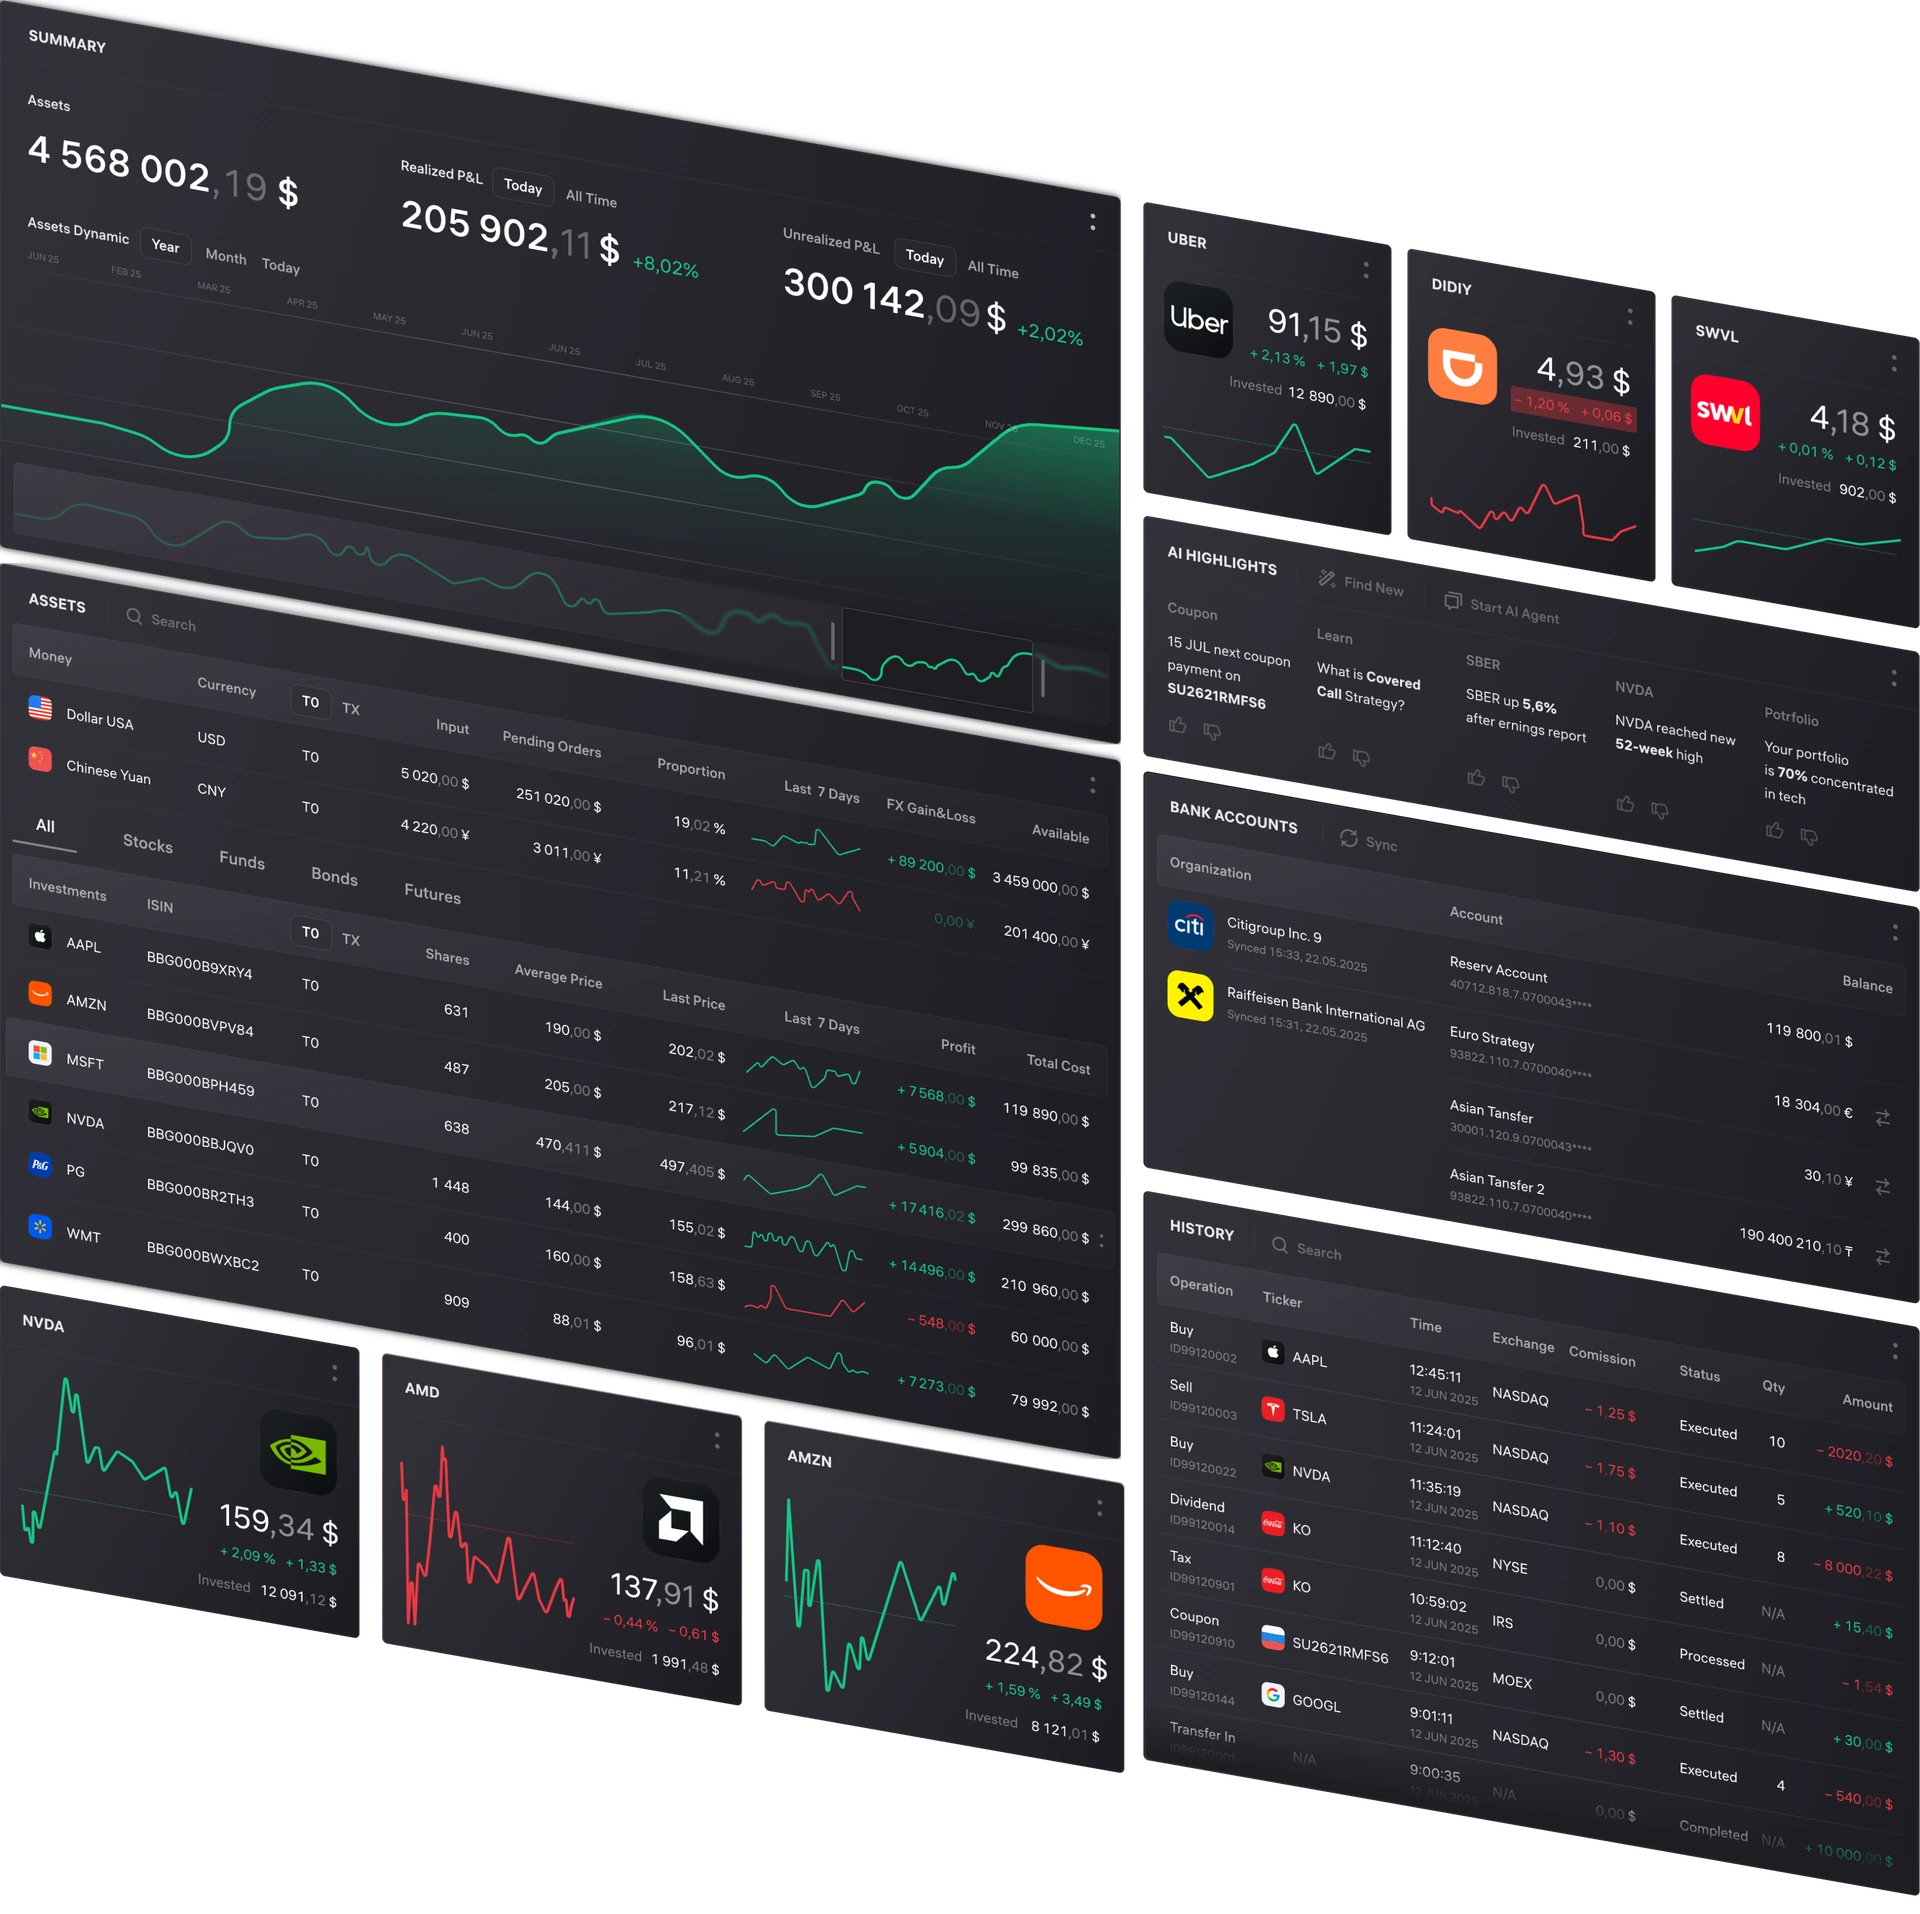
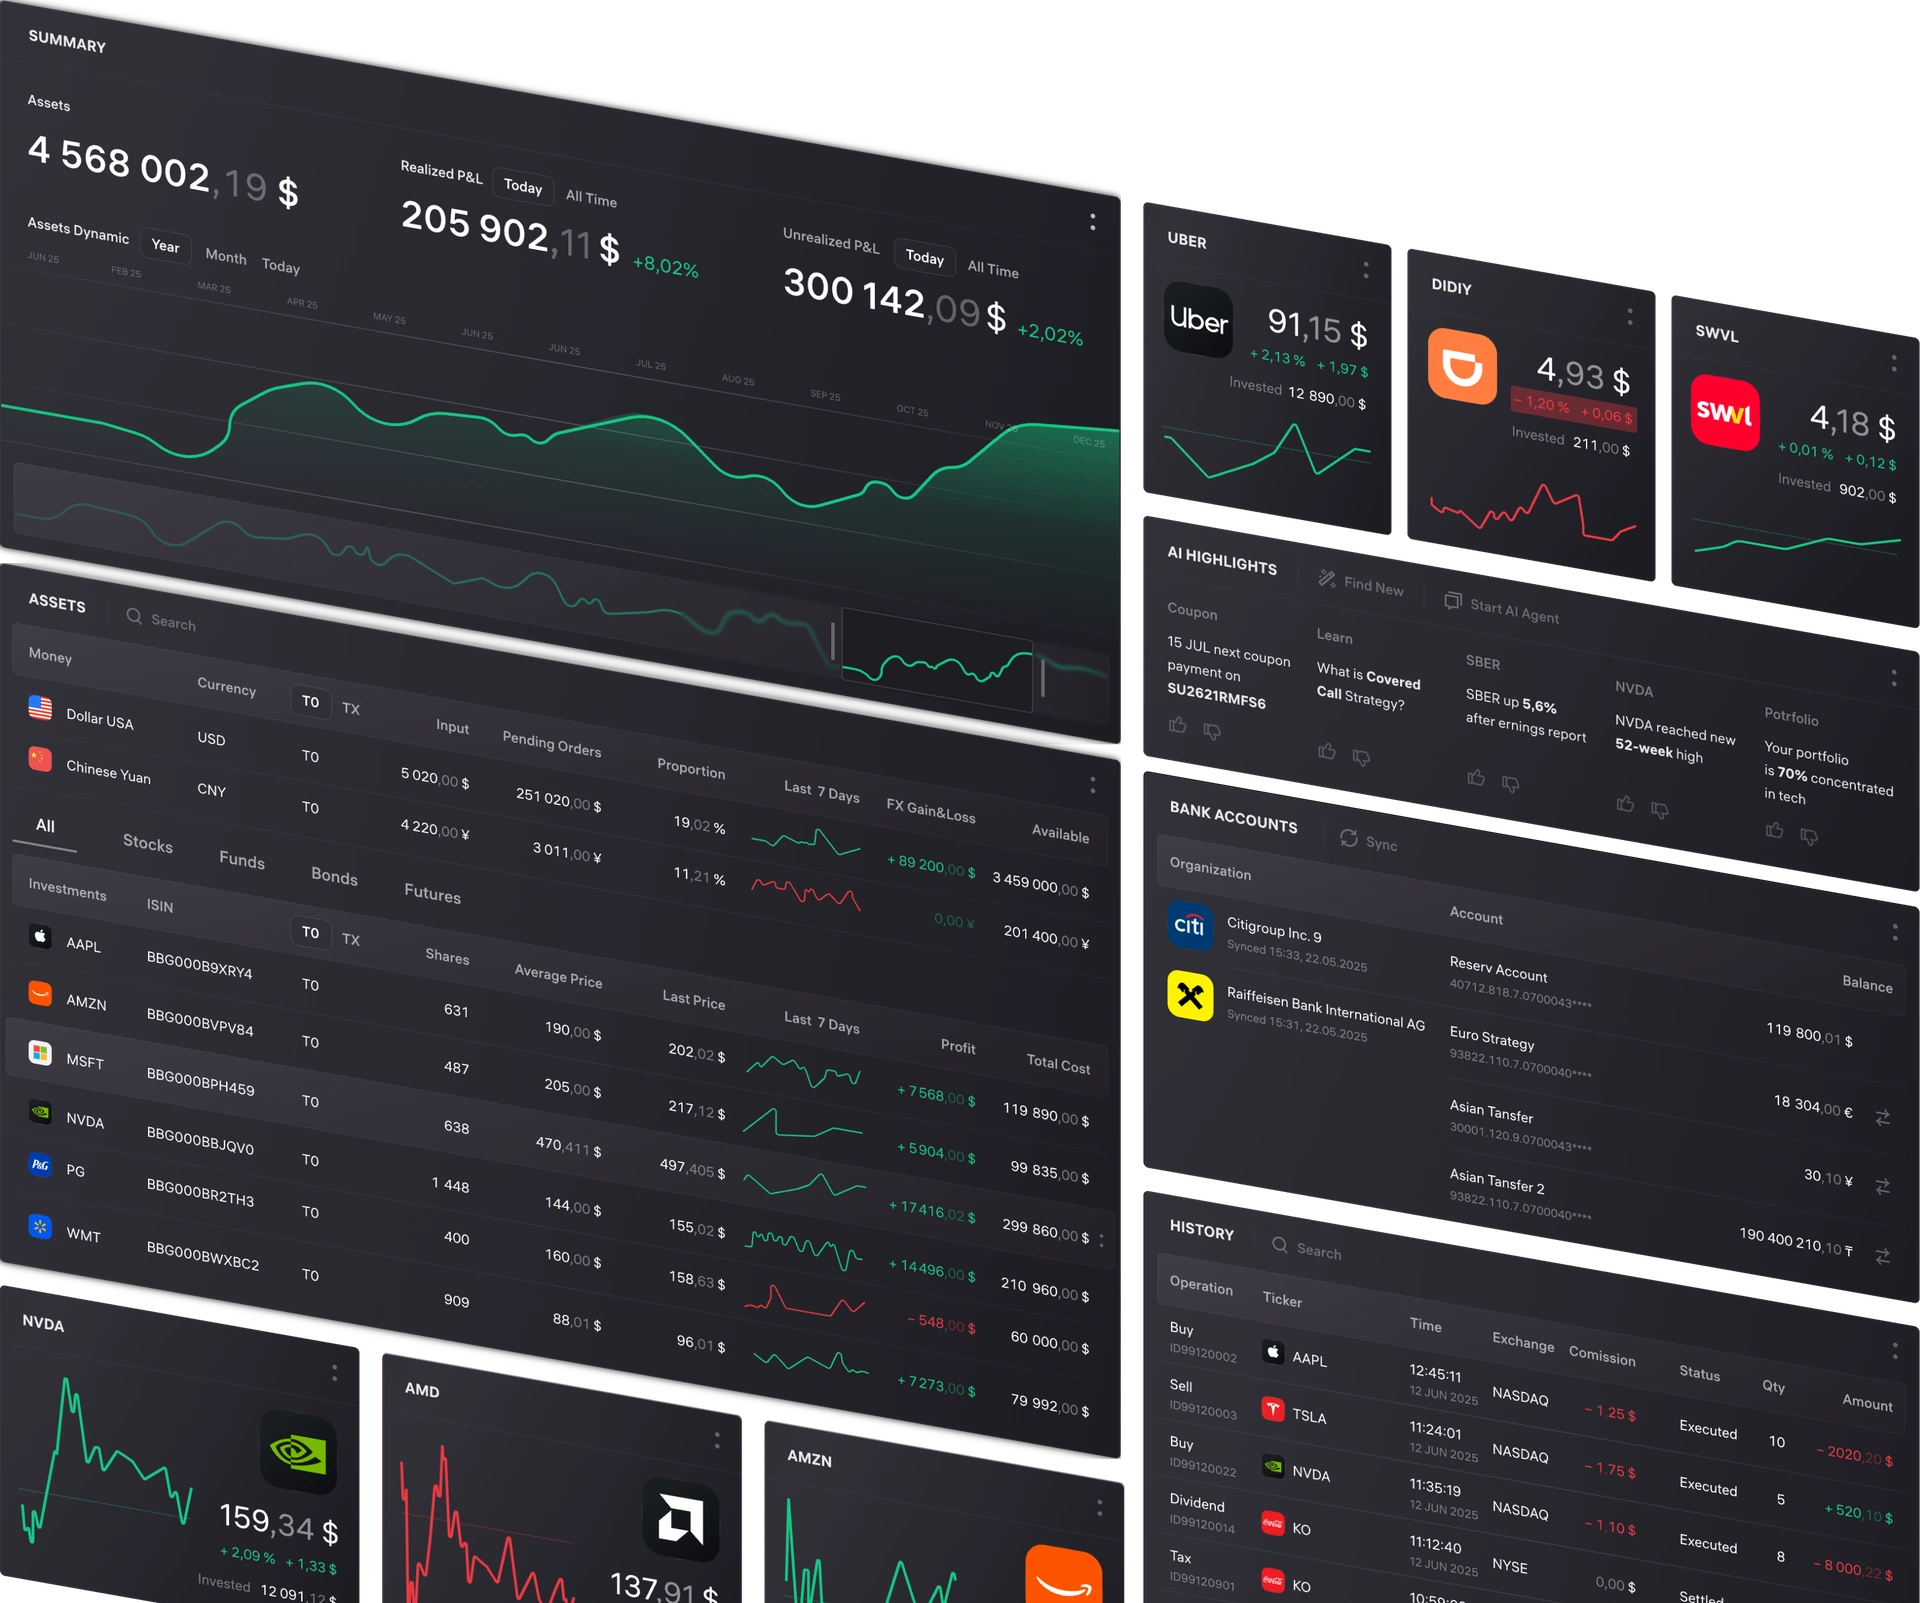
Raise terminal artwork using refreshed Figma export
Local v3 source: 639ead8ec2437d7e7550c06326a5e30910bf19bf
Preserves all 650 files outside the managed v3 files.

diff --git a/3/components/case-cards.css b/3/components/case-cards.css
@@ -24,11 +24,13 @@
    field's top corners need an inner clip; artwork may protrude above them.
    The headroom is real box space, so desktop 3D compositing cannot trim it. */
 .v3-case-cover-art > .v3-case-cover { position:absolute;left:0;bottom:0;height:calc(100% * var(--v3-cover-height) * var(--v3-field-scale) / (var(--v3-cover-height) + var(--v3-art-headroom)));border-bottom-left-radius:0;border-bottom-right-radius:0; }
-.v3-case-cover-window { position:absolute;z-index:1;left:calc(2.9762% - 2px);bottom:0;width:calc(94.13265% + 4px);height:calc(100% * (var(--v3-cover-height) + 36) / (var(--v3-cover-height) + var(--v3-art-headroom)));overflow:hidden;pointer-events:none; }
+.v3-case-cover-window { position:absolute;z-index:1;left:calc(2.9762% - 2px);bottom:0;width:calc(94.13265% + 4px);height:calc(100% * (var(--v3-cover-height) + var(--v3-image-window-headroom,36)) / (var(--v3-cover-height) + var(--v3-art-headroom)));overflow:hidden;pointer-events:none; }
 .v3-case-cover-image { position:absolute;left:2px;top:var(--v3-image-top,4.864865%);display:block;width:calc(100% - 4px);height:auto;user-select:none;-webkit-user-select:none;transform:translateY(var(--v3-image-shift,0px)) scale(var(--v3-image-scale,1));transform-origin:center top; }
 /* Preserve the same 18px artwork rise and 36px clipping headroom at 588px
    across the terminal's taller 400px field and Larixon's 334px field. */
 .v3-case-card[data-project="brokerage"],.v3-case-card[data-project="leasing"],.v3-case-card[data-project="gdematerial"],.v3-case-card[data-project="medesk"],.v3-case-card[data-project="yandex"] { --v3-image-top:4.12844%; }
+/* Give the terminal 24px more window headroom and a 22px inset: the artwork rises 20px without scaling. */
+.v3-case-card[data-project="brokerage"] { --v3-image-window-headroom:60;--v3-image-top:4.78261%; }
 .v3-case-card[data-project="brokerage"] .v3-case-cover { background:
  radial-gradient(ellipse 100% 90% at 95% 35%,#0649d9 0%,#073ab866 48%,transparent 80%),
  radial-gradient(ellipse 90% 75% at 10% 100%,#8e78c8 0%,#725ab67a 45%,transparent 85%),

diff --git a/3/components/case-cards.js b/3/components/case-cards.js
@@ -7,8 +7,8 @@ const projects=[
   srcset:'/3/assets/case-covers/larixon-isometric-480-q94.webp?v=0c0358bd31a9 480w,/3/assets/case-covers/larixon-isometric-768-q94.webp?v=0d58446df47a 768w,/3/assets/case-covers/larixon-isometric-1200-q94.webp?v=96f03d764c7c 1200w,/3/assets/case-covers/larixon-isometric-1920-q94.webp?v=718281acd315 1920w',
   alt:'Isometric illustration of Larixon Classifieds product screens'}},
  {id:'brokerage',prefix:'Designing for',company:'Raiffeisen Bank',tail:'a professional trading terminal for 500+ institutional clients.',logo:'logo-raiffeisen.svg?v=74f1746e3599',cover:{
-  src:'/3/assets/case-covers/brokerage-isometric-1200-q94.webp?v=428f9b9cb724',width:1200,height:1196,
-  srcset:'/3/assets/case-covers/brokerage-isometric-480-q94.webp?v=d6250d0462e6 480w,/3/assets/case-covers/brokerage-isometric-768-q94.webp?v=45277fa6191d 768w,/3/assets/case-covers/brokerage-isometric-1200-q94.webp?v=428f9b9cb724 1200w,/3/assets/case-covers/brokerage-isometric-1920-q94.webp?v=cb6919c850f1 1920w',
+  src:'/3/assets/case-covers/brokerage-isometric-1200-q94.webp?v=60cf793bdc9d',width:1200,height:1002,
+  srcset:'/3/assets/case-covers/brokerage-isometric-480-q94.webp?v=368c6affa9d9 480w,/3/assets/case-covers/brokerage-isometric-768-q94.webp?v=d35e418b0b6c 768w,/3/assets/case-covers/brokerage-isometric-1200-q94.webp?v=60cf793bdc9d 1200w,/3/assets/case-covers/brokerage-isometric-1920-q94.webp?v=ffb21151fa36 1920w',
   alt:'Isometric illustration of the Raiffeisen professional trading terminal'}},
  {id:'leasing',prefix:'Connecting',company:'Raiffeisen Leasing',tail:'workflows, from the first calculation to a signed contract.',logo:'logo-raiffeisen.svg?v=74f1746e3599',cover:{
   src:'/3/assets/case-covers/leasing-isometric-1200-q94.webp?v=f4c7f9a22734',width:1200,height:1685,

diff --git a/3/index.html b/3/index.html
@@ -1,5 +1,5 @@
 <!doctype html>
-<html lang="en" data-build="65b30d692f2e">
+<html lang="en" data-build="718dbe92c60f">
 <head>
   <meta charset="utf-8">
   <meta name="viewport" content="width=device-width, initial-scale=1">
@@ -55,9 +55,9 @@
   <link rel="stylesheet" href="/3/components/avatar-effects.css?v=dd55cd4dcf8f">
   <link rel="stylesheet" href="/3/components/avatar.css?v=29ad70889197">
   <script type="module" src="/3/components/avatar.js?v=11046417f195"></script>
-  <link rel="stylesheet" href="/3/components/case-cards.css?v=9437d218b5a2">
+  <link rel="stylesheet" href="/3/components/case-cards.css?v=75ba45e73f95">
   <link rel="stylesheet" href="/3/components/card-gradient.css?v=349192e0d7df">
-  <script type="module" src="/3/components/case-cards.js?v=e75324cbbc3e"></script>
+  <script type="module" src="/3/components/case-cards.js?v=88bd3c3feddd"></script>
   <link rel="stylesheet" href="/3/components/contact.css?v=e5118660c600">
   <link rel="stylesheet" href="/3/components/contact-gradient.css?v=d2204a9655d2">
   <script type="module" src="/3/components/contact.js?v=7502722c439d"></script>
